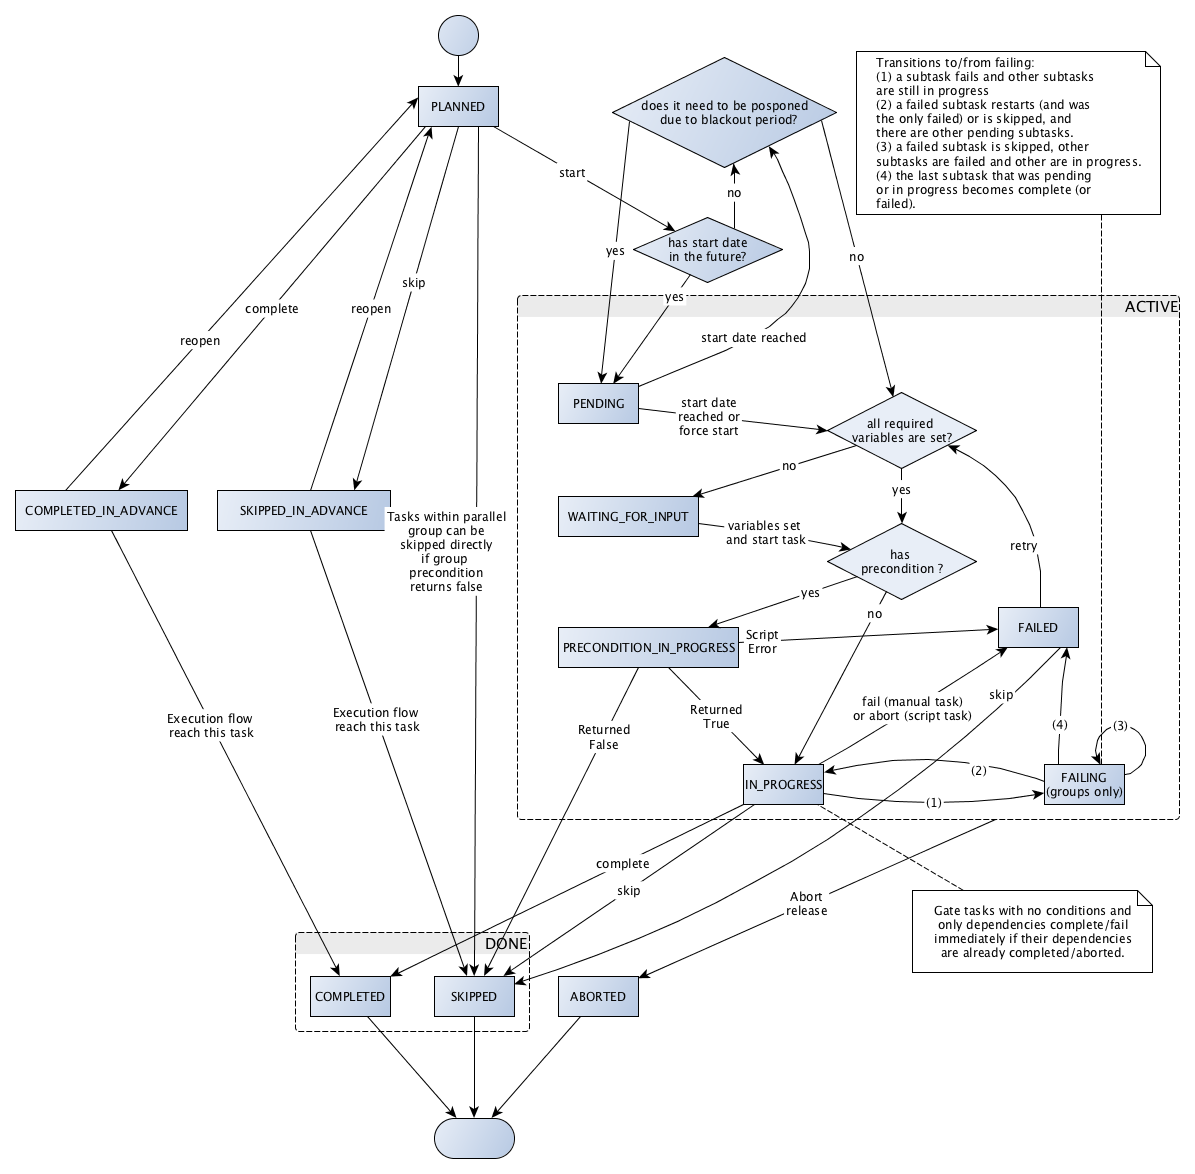
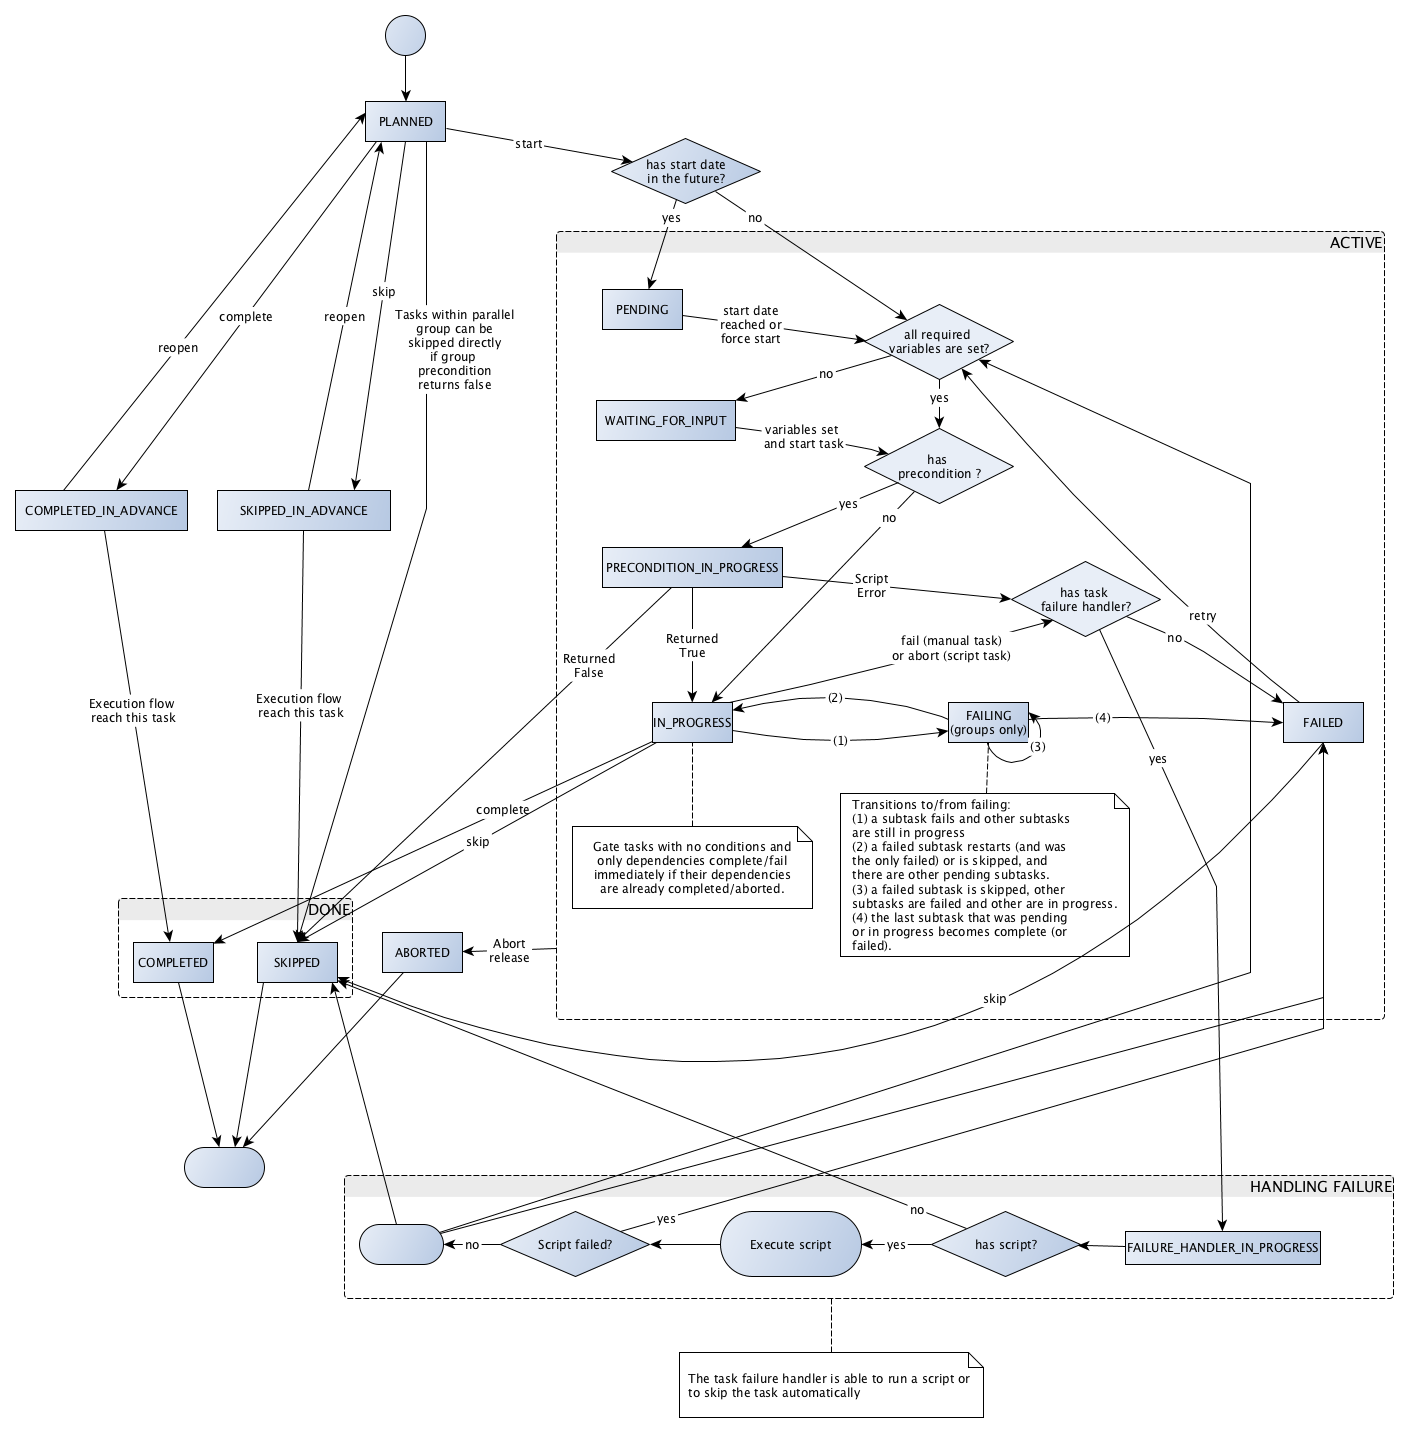
REL-6808 Documentation about task failure handler (#282)
* REL-6808 empty how-to

* REL-6808 first draft

* REL-6808 fix title...

* REL-6828 - Minor text edits

* Added requested changes

* REL-6808 add task lifecycle

* small text change

* updated image

* update

* updated warning message

* REL-6808 - Text update

* REL-6808 - added links for new topic

* Update task-failure-handler.markdown

diff --git a/xl-release/how-to/perform-deployment-rollbacks.md b/xl-release/how-to/perform-deployment-rollbacks.md
@@ -97,4 +97,5 @@ At this time, you can specify the new deployment package for PetPortal 2.3. The 
 
 XL Release supports several approaches to automating failure handling. For detailed information, refer to:
 
+* [Task failure handler](/xl-release/how-to/task-failure-handler.html)
 * [How to handle failures](/xl-release/how-to/handle-failures-in-tasks.html)
